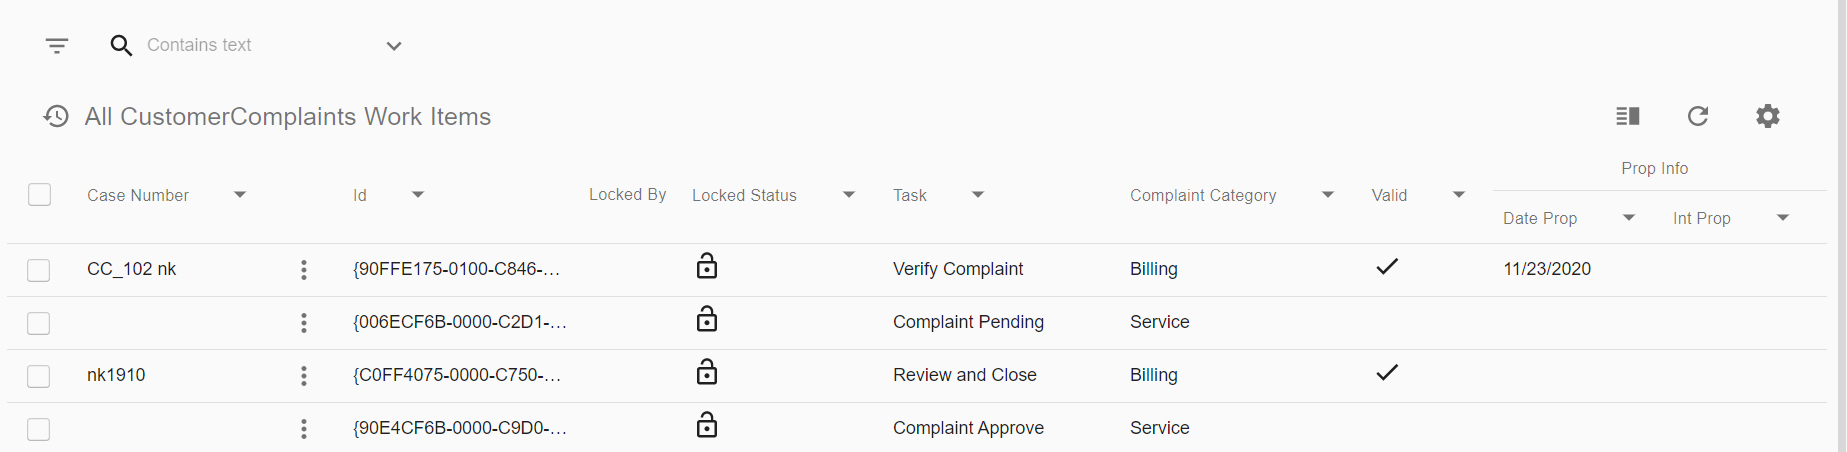
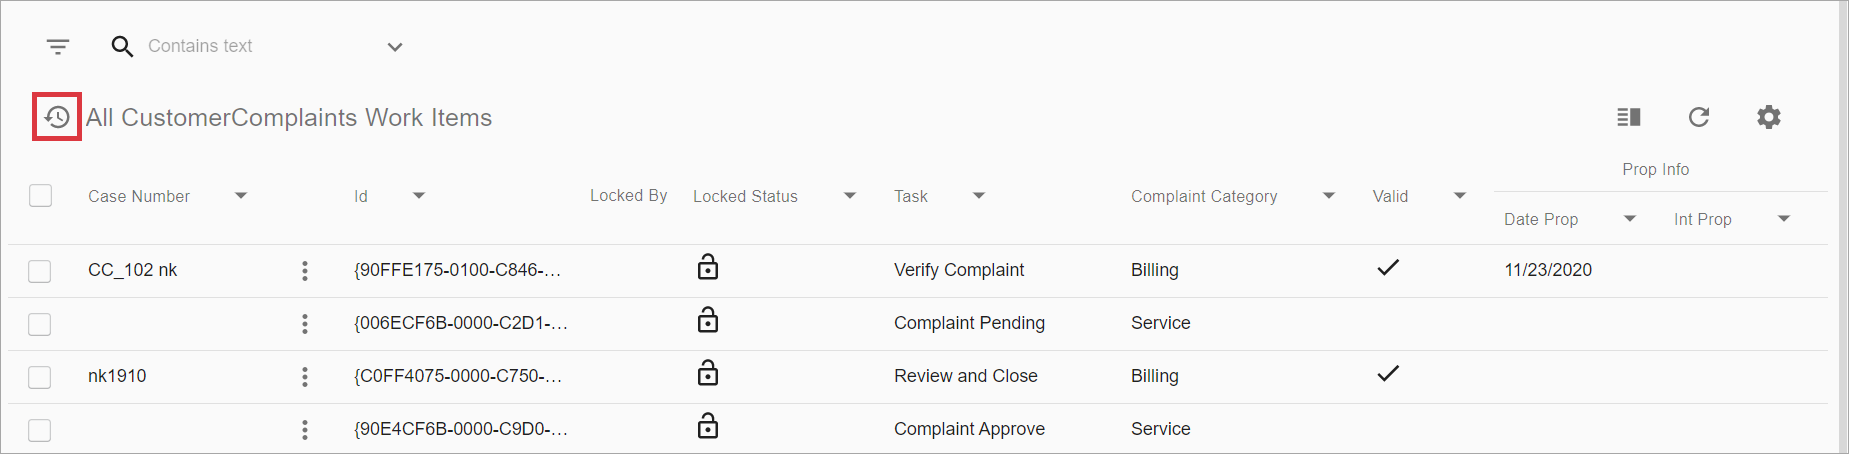
Improving image, minor changes in content.

diff --git a/_docs/unity-react/components/search-template/recent-view-history.md b/_docs/unity-react/components/search-template/recent-view-history.md
@@ -3,24 +3,29 @@ title: Unity Components - Recent view history
 layout: docs
 category: Unity 7
 ---
-*content to be added*
-
 # Description
 
-Recent view history saves and shows links to recently viewed items. For example, here is how history icon looks 
-like on Workitems grid:
+Recent view history saves and shows links to recently viewed items. For example, here is how history icon looks on Workitems grid:
 
 ![History icon on Workitems grid](recent-view-history/images/history_icon_position.png)
 
-History titles are different for different grids, depending on their content. Usually it's just a title of an item,
+# How To Open Recent View History
+
+Click on history icon to view list of recent items.
+
+History titles of items are different for different grids, depending on their content. Usually it's just a title of an item,
 but for some grids it can be other item parameter or even be composed of several parameters like it used by Workitems grid. 
 
 It uses composed value of case title and own title for better readability and uniqueness:
 
 ![History with composed title](recent-view-history/images/history_with_composed_title.png)
 
-# How to add new item to history
+# How To Add New Item To History
 
 To add new item to history you should click on grid item or choose "Properties" in context menu of an item:
 
 ![Choosing an item from list](recent-view-history/images/choose_workitem.png)
+
+# Configuration
+
+Recent view history feature appears automatically, no configuration is required.
